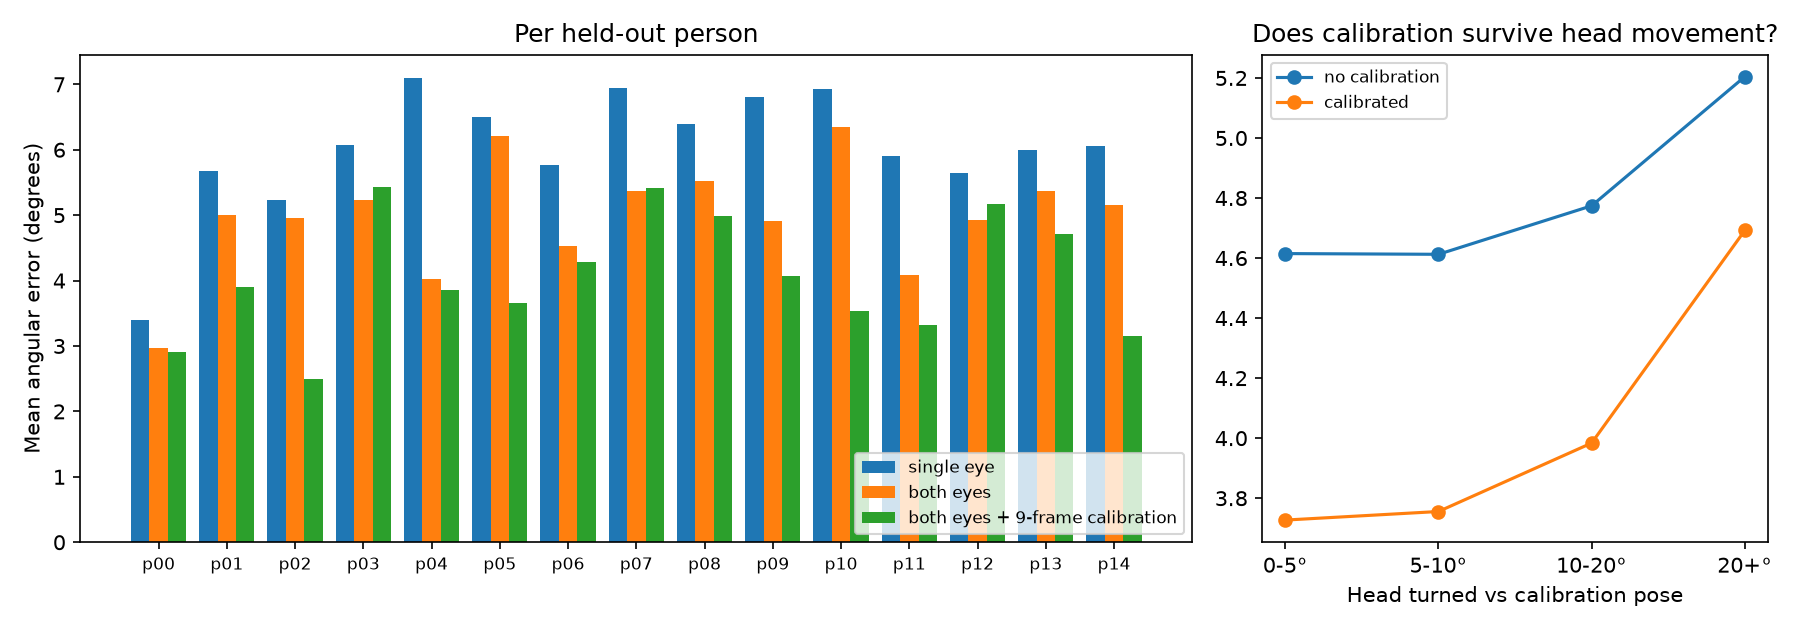
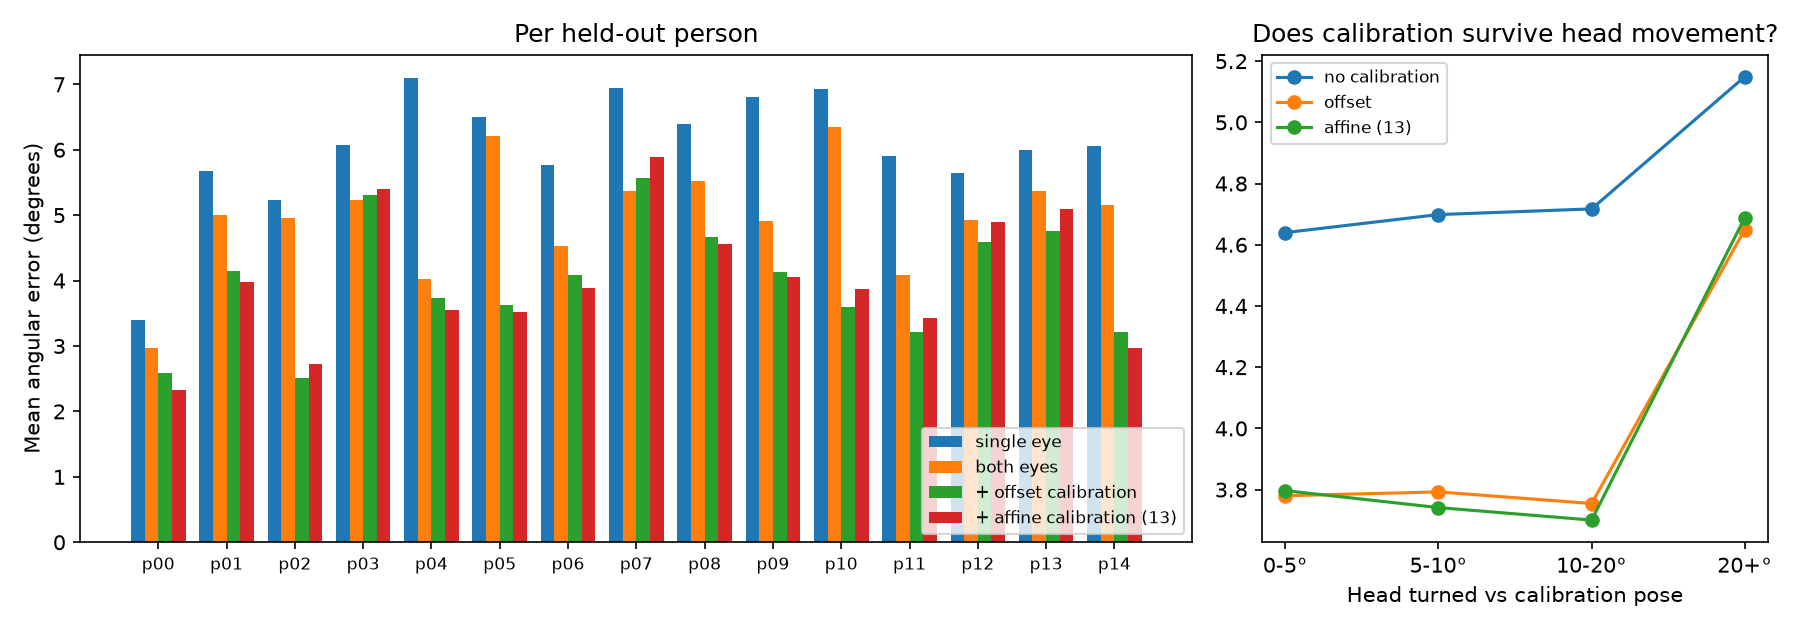
eval: compare offset and affine calibration on unseen days

diff --git a/evaluate.py b/evaluate.py
@@ -7,10 +7,14 @@ person predicts gaze for both eyes. Then:
   2. both eyes    : the two eyes' predictions are rotated back to camera space
                     and averaged; compared with the average of the two true
                     gaze directions
-  3. calibrated   : 9 frames from ONE recording day of that person are used to
-                    fit a small correction (a fixed offset in pitch/yaw per eye);
-                    it is tested on all OTHER days, where head pose, distance
-                    and lighting differ. Repeated 5 times with different days.
+  3. calibrated   : frames from ONE recording day of that person are used to
+                    fit a correction; it is tested on all OTHER days, where head
+                    pose, distance and lighting differ. Repeated 5 times with
+                    different days. Three methods are compared:
+                      offset     9 frames, a fixed pitch/yaw offset per eye
+                      affine 9   offset, then a scale + shift + tilt of the
+                                 combined gaze (stretches a squeezed range)
+                      affine 13  the same with 13 frames, like the demo
 
 Head-pose check: calibrated error is also reported by how far the head is
 turned compared with the calibration frames, to see whether the correction
@@ -43,6 +47,8 @@ from gaze_model import BASE, GazeNet, list_people, load_all
 ORIGINAL = Path("dataset/Data/Original")
 OUT_DIR = Path("results/evaluation")
 N_CALIBRATION = 9
+N_CALIBRATION_AFFINE = 13
+AFFINE_RIDGE = 0.05  # pulls the affine fit towards "no change"; chosen on held-out days
 N_REPEATS = 5
 MIN_DAY_FRAMES = 30
 SEED = 42
@@ -152,6 +158,17 @@ def calibrate_offsets(pred, truth):
     return (truth - pred).mean(axis=0)
 
 
+def fit_affine(pred_angles, true_angles, ridge=AFFINE_RIDGE):
+    """Least-squares map [pitch, yaw, 1] -> [pitch, yaw], gently pulled towards identity."""
+    X = np.column_stack([pred_angles, np.ones(len(pred_angles))])
+    identity = np.array([[1.0, 0.0], [0.0, 1.0], [0.0, 0.0]])
+    return np.linalg.solve(X.T @ X + ridge * np.eye(3), X.T @ true_angles + ridge * identity)
+
+
+def apply_affine(A, angles):
+    return np.column_stack([angles, np.ones(len(angles))]) @ A
+
+
 # ---------- main evaluation ----------
 
 def evaluate_person(person, data, pred_all, rng):
@@ -191,24 +208,36 @@ def evaluate_person(person, data, pred_all, rng):
     days = data["day"][r]
     eligible = [d for d in sorted(set(days)) if (days == d).sum() >= MIN_DAY_FRAMES]
     calib_errors, calib_baseline, head_diffs = [], [], []
+    affine9_errors, affine13_errors = [], []
+    truth_vec = to_camera(true["r"], "r") + to_camera(true["l"], "l")
+    truth_ang = vectors_to_angles(truth_vec)
+
+    def offset_corrected(chosen):
+        return {e: pred[e] + calibrate_offsets(pred[e][chosen], true[e][chosen]) for e in ("r", "l")}
+
+    def affine_error(chosen, test):
+        corrected = offset_corrected(chosen)
+        ang = vectors_to_angles(to_camera(corrected["r"], "r") + to_camera(corrected["l"], "l"))
+        A = fit_affine(ang[chosen], truth_ang[chosen])
+        return angle_between(angles_to_vectors(apply_affine(A, ang[test])), truth_vec[test])
+
     for repeat in range(N_REPEATS):
         if not eligible:
             break
         cal_day = eligible[rng.integers(len(eligible))]
         day_frames = np.where(days == cal_day)[0]
-        truth_cam = to_camera(true["r"], "r") + to_camera(true["l"], "l")
-        chosen = day_frames[pick_calibration(vectors_to_angles(truth_cam[day_frames]), rng)]
+        chosen = day_frames[pick_calibration(truth_ang[day_frames], rng)]
+        extra = rng.choice(np.setdiff1d(day_frames, chosen), N_CALIBRATION_AFFINE - N_CALIBRATION, replace=False)
+        chosen13 = np.concatenate([chosen, extra])
         test = days != cal_day
         if not test.any():
             continue
 
-        corrected = {}
-        for e in ("r", "l"):
-            offset = calibrate_offsets(pred[e][chosen], true[e][chosen])
-            corrected[e] = pred[e] + offset
-
+        corrected = offset_corrected(chosen)
         calib_errors.append(fused_error(corrected["r"], corrected["l"], test))
         calib_baseline.append(fused_error(pred["r"], pred["l"], test))
+        affine9_errors.append(affine_error(chosen, test))
+        affine13_errors.append(affine_error(chosen13, test))
 
         cal_head = data["head_forward"][r][chosen].mean(axis=0)
         head_diffs.append(angle_between(data["head_forward"][r][test],
@@ -225,10 +254,13 @@ def evaluate_person(person, data, pred_all, rng):
     if calib_errors:
         row["calibrated_other_days_mae"] = float(np.mean([e.mean() for e in calib_errors]))
         row["both_eyes_other_days_mae"] = float(np.mean([e.mean() for e in calib_baseline]))
+        row["affine9_other_days_mae"] = float(np.mean([e.mean() for e in affine9_errors]))
+        row["affine13_other_days_mae"] = float(np.mean([e.mean() for e in affine13_errors]))
         row["calibration_repeats"] = len(calib_errors)
     by_head = {
         "calibrated": np.concatenate(calib_errors) if calib_errors else np.array([]),
         "uncalibrated": np.concatenate(calib_baseline) if calib_baseline else np.array([]),
+        "affine13": np.concatenate(affine13_errors) if affine13_errors else np.array([]),
         "head_diff": np.concatenate(head_diffs) if head_diffs else np.array([]),
     }
     return row, by_head
@@ -278,7 +310,8 @@ def main():
         head_parts.append(by_head)
         print(f"{person}: single eye {row['single_eye_mae']:.2f}° | both eyes {row['both_eyes_mae']:.2f}°"
               + (f" | other days: {row['both_eyes_other_days_mae']:.2f}° -> calibrated "
-                 f"{row['calibrated_other_days_mae']:.2f}°" if "calibrated_other_days_mae" in row else ""))
+                 f"{row['calibrated_other_days_mae']:.2f}° (offset), {row['affine9_other_days_mae']:.2f}° (affine 9), "
+                 f"{row['affine13_other_days_mae']:.2f}° (affine 13)" if "calibrated_other_days_mae" in row else ""))
 
     OUT_DIR.mkdir(parents=True, exist_ok=True)
     with open(OUT_DIR / "per_person.csv", "w", newline="") as file:
@@ -294,13 +327,16 @@ def main():
     for key, label in [("single_eye_mae", "single eye"),
                        ("both_eyes_mae", "both eyes fused"),
                        ("both_eyes_other_days_mae", "both eyes, other days (no calibration)"),
-                       ("calibrated_other_days_mae", "both eyes, other days, 9-frame calibration")]:
+                       ("calibrated_other_days_mae", "both eyes, other days, 9-frame offset calibration"),
+                       ("affine9_other_days_mae", "both eyes, other days, 9-frame affine calibration"),
+                       ("affine13_other_days_mae", "both eyes, other days, 13-frame affine calibration")]:
         m, se, n = pe(key)
         lines.append(f"{label:45s} {m:.2f}° (SE {se:.2f}, n={n})")
 
     # Calibration benefit by head-pose change.
     cal = np.concatenate([h["calibrated"] for h in head_parts])
     unc = np.concatenate([h["uncalibrated"] for h in head_parts])
+    aff = np.concatenate([h["affine13"] for h in head_parts])
     hd = np.concatenate([h["head_diff"] for h in head_parts])
     lines.append("\nHead turned away from calibration pose (pooled over people and repeats):")
     head_rows = []
@@ -309,8 +345,10 @@ def main():
         if m.sum() == 0:
             continue
         head_rows.append({"head_change": f"{lo}-{hi}", "n": int(m.sum()),
-                          "uncalibrated_mae": float(unc[m].mean()), "calibrated_mae": float(cal[m].mean())})
-        lines.append(f"  {lo:>3}-{hi:<3} deg  n={m.sum():<7} uncalibrated {unc[m].mean():.2f}°  calibrated {cal[m].mean():.2f}°")
+                          "uncalibrated_mae": float(unc[m].mean()), "calibrated_mae": float(cal[m].mean()),
+                          "affine13_mae": float(aff[m].mean())})
+        lines.append(f"  {lo:>3}-{hi:<3} deg  n={m.sum():<7} uncalibrated {unc[m].mean():.2f}°  "
+                     f"offset {cal[m].mean():.2f}°  affine 13 {aff[m].mean():.2f}°")
 
     with open(OUT_DIR / "calibration_by_head_change.csv", "w", newline="") as file:
         writer = csv.DictWriter(file, fieldnames=list(head_rows[0].keys()))
@@ -329,10 +367,11 @@ def plot(rows, head_rows, path):
     people = [r["person_id"] for r in rows]
     x = np.arange(len(rows))
     series = [("single_eye_mae", "single eye"), ("both_eyes_mae", "both eyes"),
-              ("calibrated_other_days_mae", "both eyes + 9-frame calibration")]
+              ("calibrated_other_days_mae", "+ offset calibration"),
+              ("affine13_other_days_mae", "+ affine calibration (13)")]
     for k, (key, label) in enumerate(series):
         vals = [r.get(key, np.nan) for r in rows]
-        axes[0].bar(x + (k - 1) * 0.27, vals, width=0.27, label=label)
+        axes[0].bar(x + (k - 1.5) * 0.2, vals, width=0.2, label=label)
     axes[0].set_xticks(x)
     axes[0].set_xticklabels(people, rotation=0, fontsize=8)
     axes[0].set_ylabel("Mean angular error (degrees)")
@@ -342,7 +381,8 @@ def plot(rows, head_rows, path):
     labels = [h["head_change"].replace("-180", "+") + "°" for h in head_rows]
     hx = np.arange(len(head_rows))
     axes[1].plot(hx, [h["uncalibrated_mae"] for h in head_rows], marker="o", label="no calibration")
-    axes[1].plot(hx, [h["calibrated_mae"] for h in head_rows], marker="o", label="calibrated")
+    axes[1].plot(hx, [h["calibrated_mae"] for h in head_rows], marker="o", label="offset")
+    axes[1].plot(hx, [h["affine13_mae"] for h in head_rows], marker="o", label="affine (13)")
     axes[1].set_xticks(hx)
     axes[1].set_xticklabels(labels)
     axes[1].set_xlabel("Head turned vs calibration pose")
